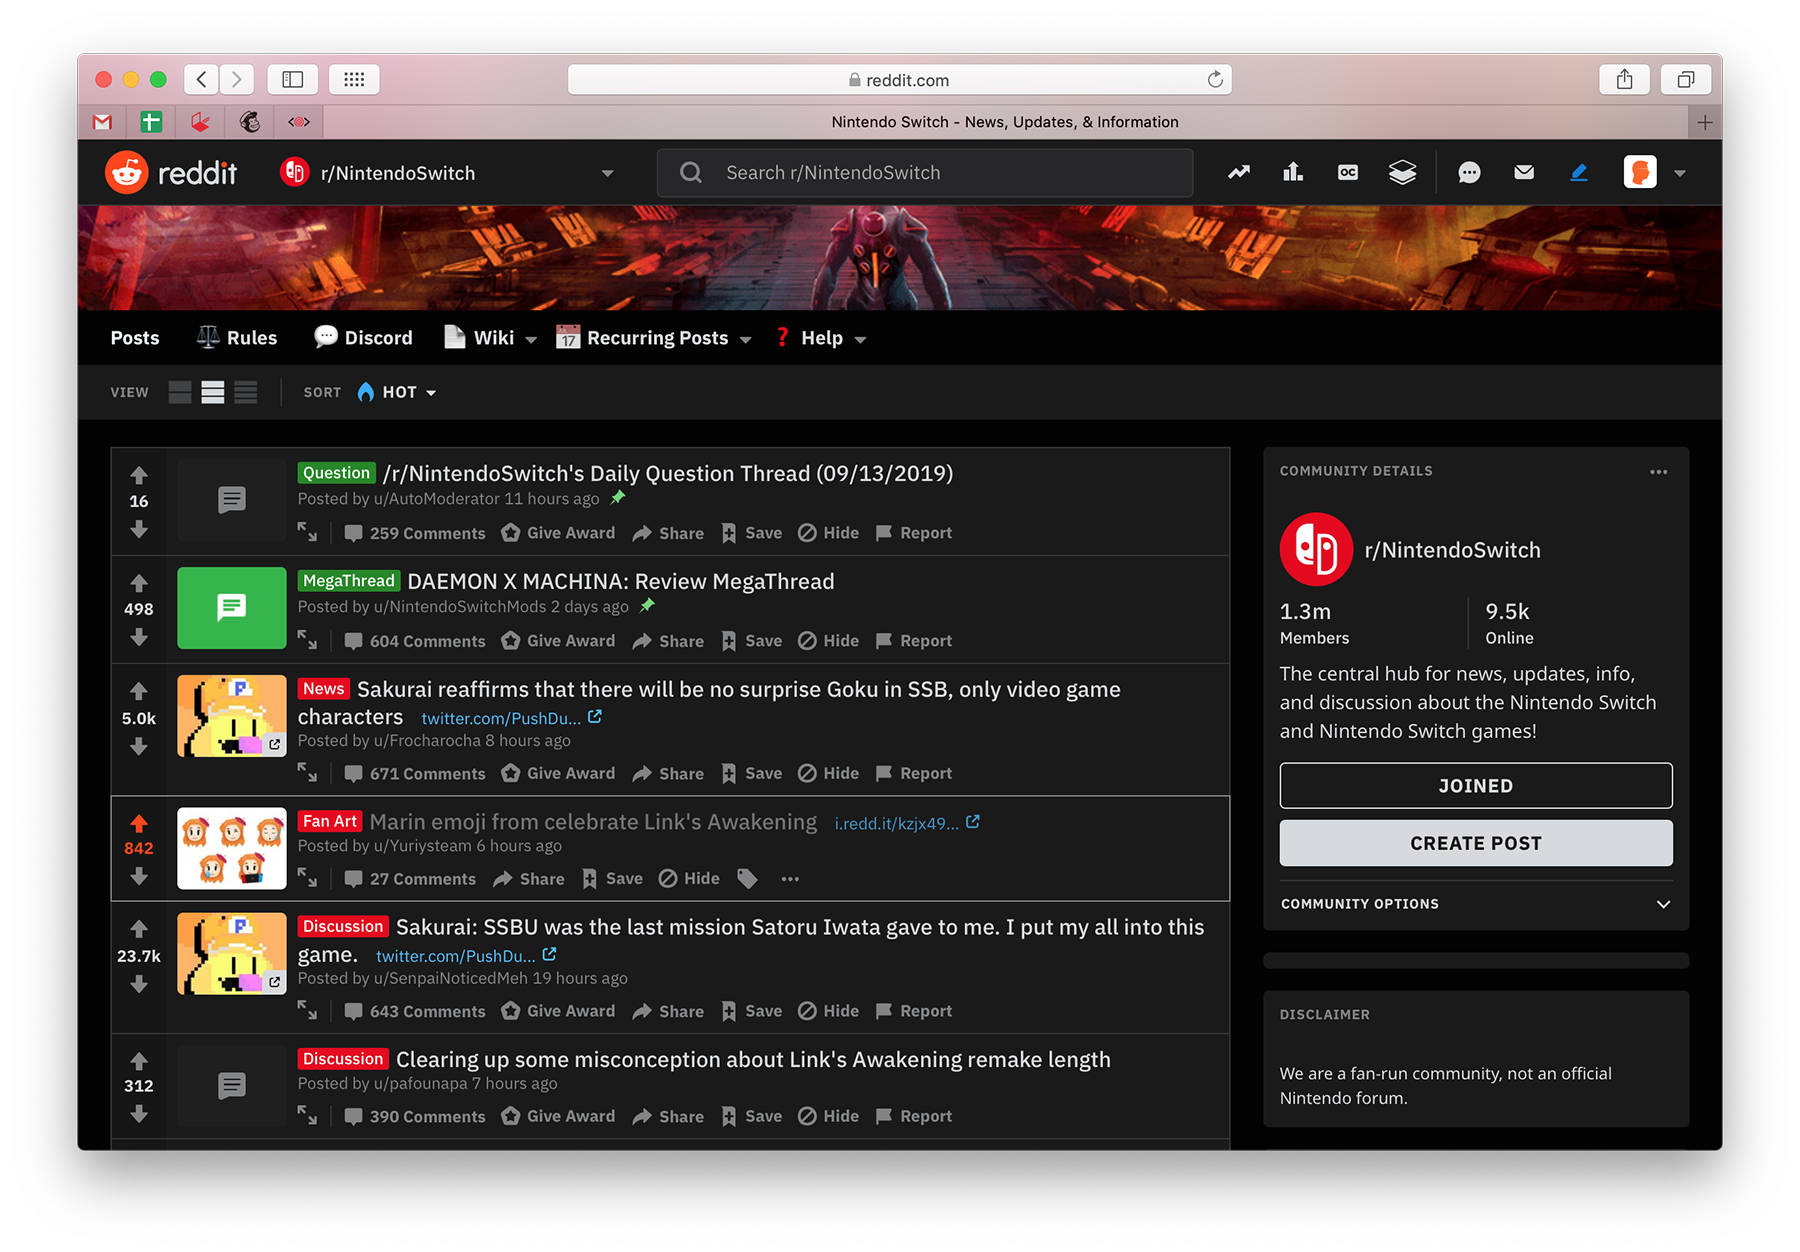
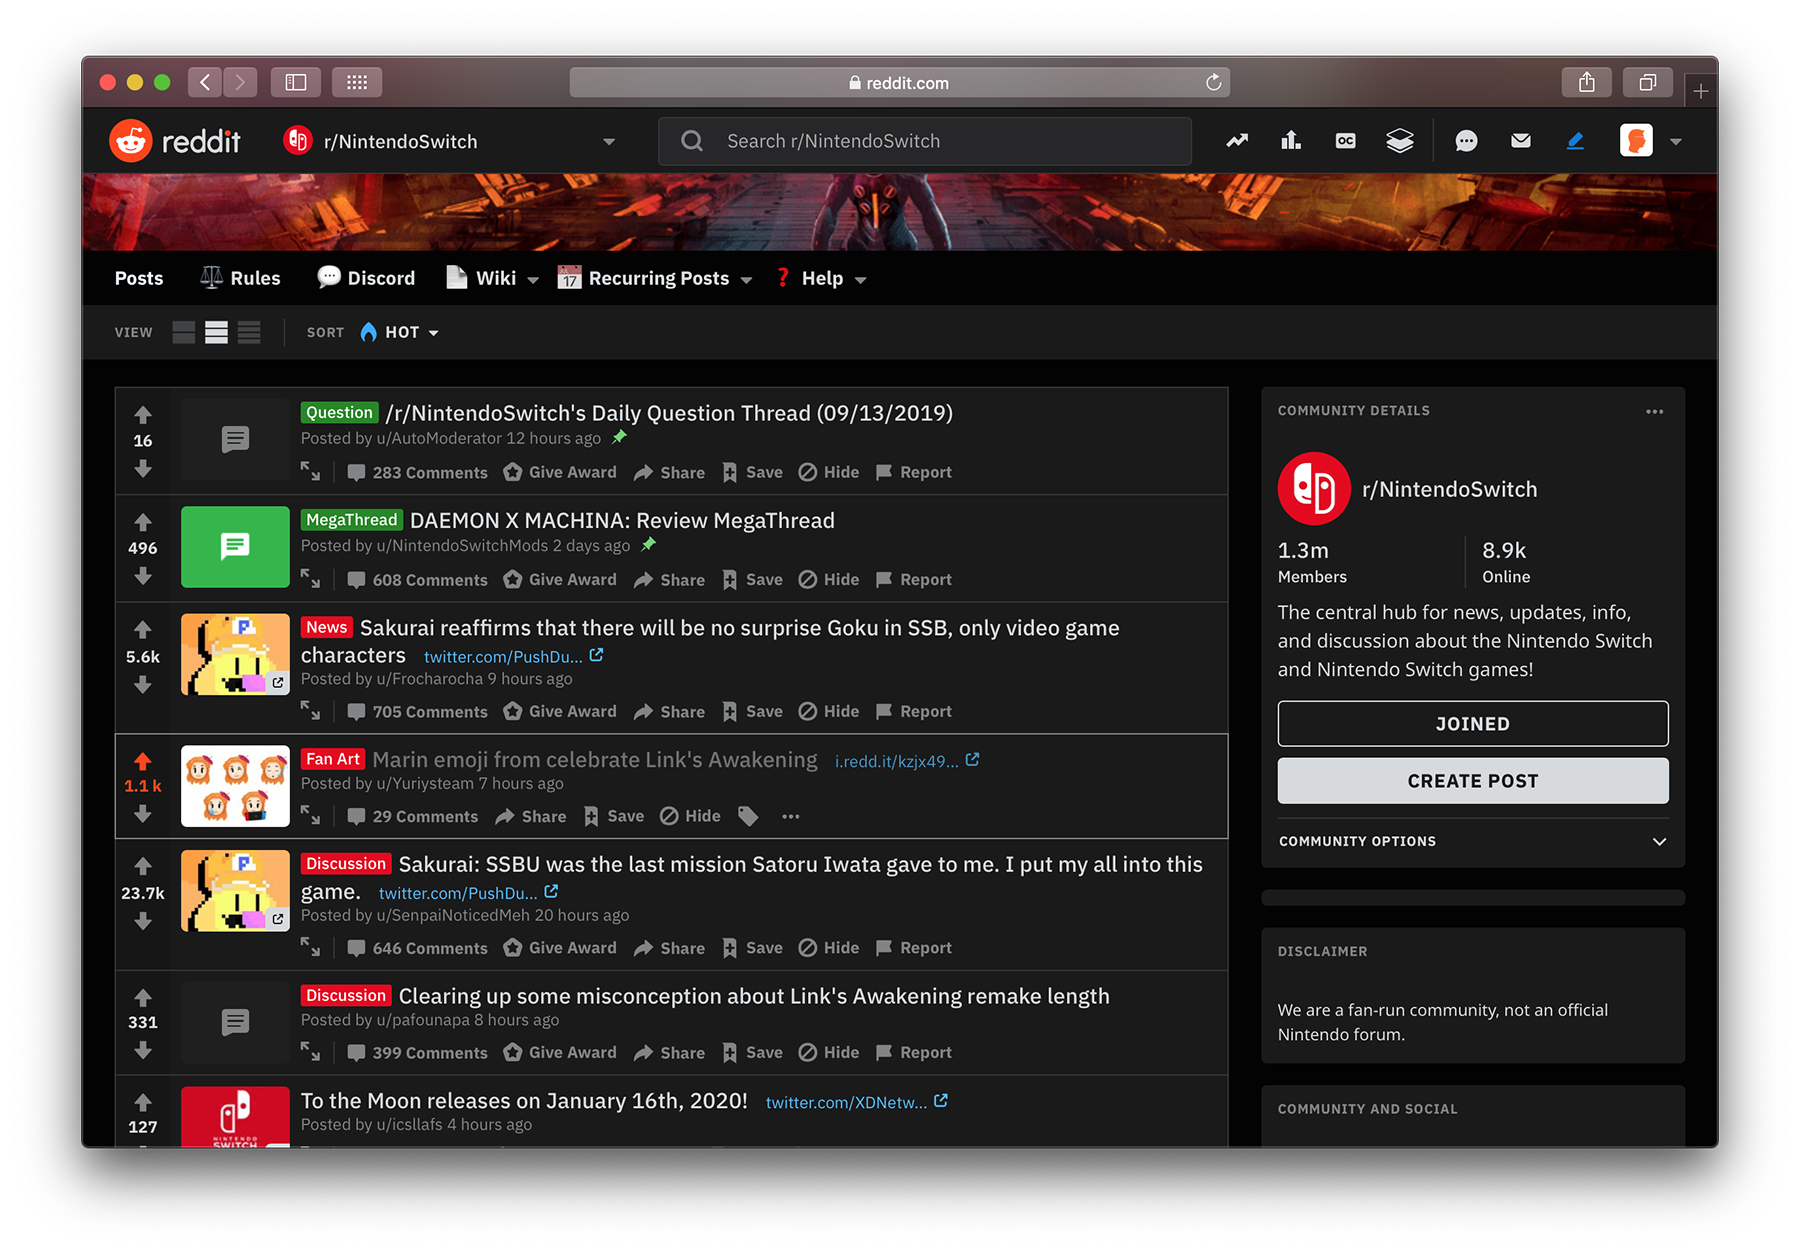
links

diff --git a/_projects/links-awakening.md b/_projects/links-awakening.md
@@ -21,11 +21,11 @@ days: 12 days (published 11.06.19)
 
 ### One month after launch
 
-Downloads: **168**     Usage: **546**
+Downloads: **168**      Usage: **546**
 
 ### Reception 
 
-Reddit post got 800+ upvotes in the first 6 hours in [r/NintendoSwitch](https://www.reddit.com/r/NintendoSwitch/comments/d3qxsv/marin_emoji_from_celebrate_links_awakening/) and made it to the top of Hot list.
+[Reddit post](https://www.reddit.com/r/NintendoSwitch/comments/d3qxsv/marin_emoji_from_celebrate_links_awakening/) got **1000+ upvotes** in 7 hours on r/NintendoSwitch. It made to the top of Hot list.
 
 <span class="p900">![link's awakening emoji reddit](/projects_img/stickers/reddit.png)</span>
 

diff --git a/_projects/aml-system.md b/_projects/aml-system.md
@@ -12,6 +12,7 @@ type: project
 web: amlsystem.com
 
 block: half
+nametemplate: no-name
 template: single-project-cover
 new-cover: "/projects_img/aml/cover.png"
 author: "Art director and lead designer: Yuriy Shiryaev</br>
